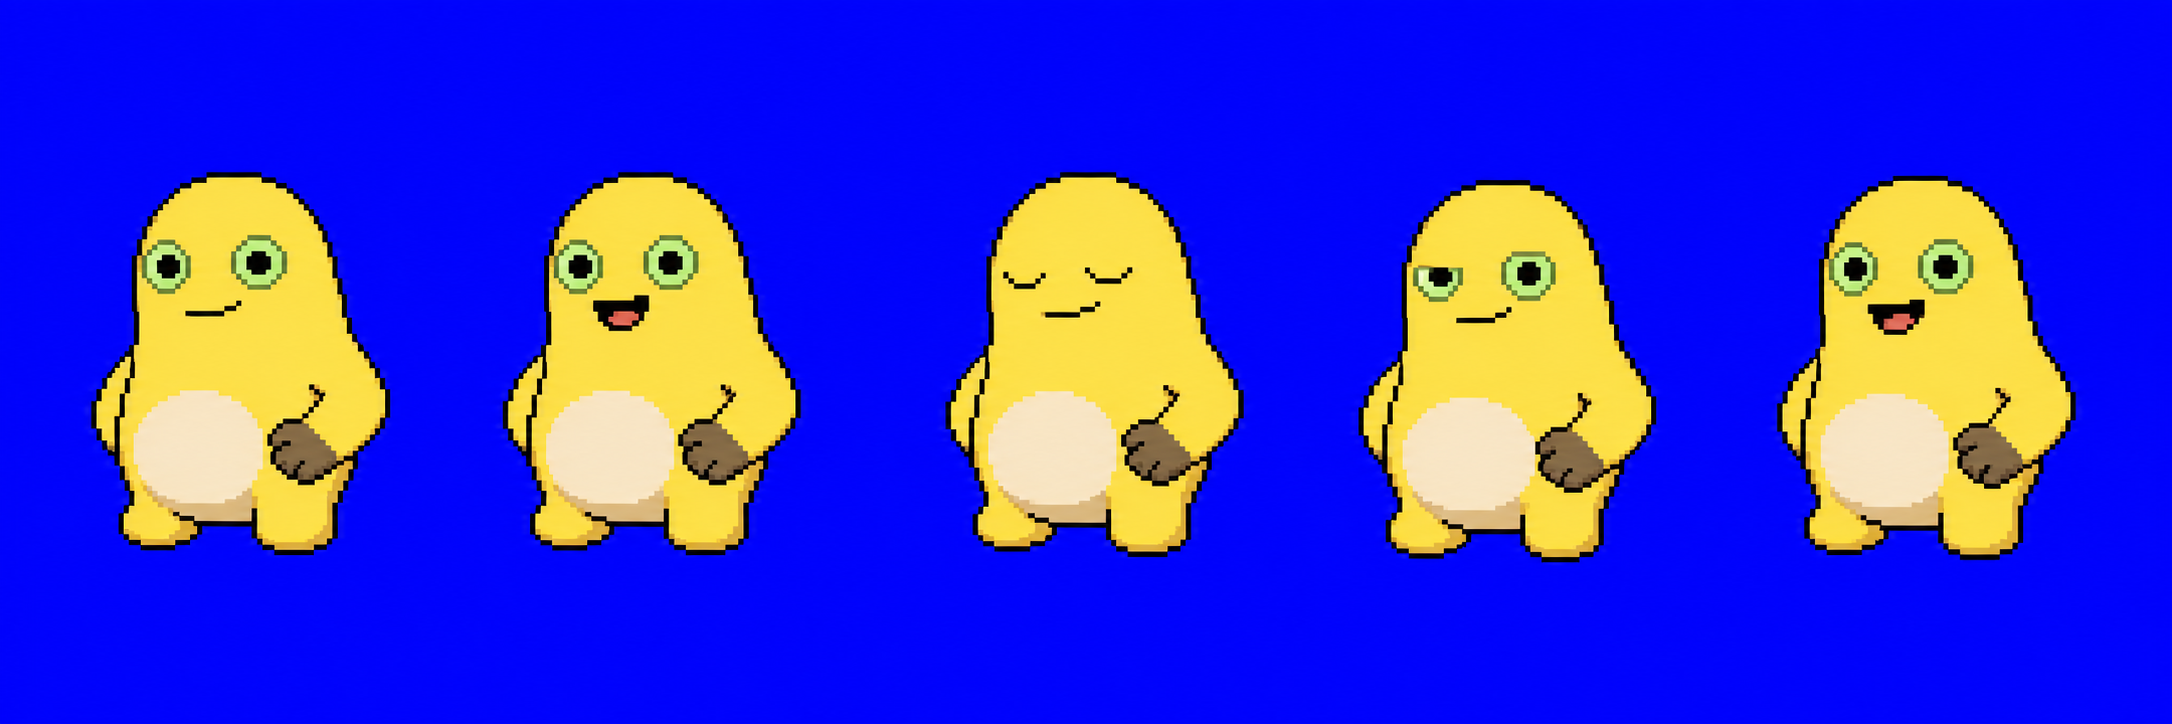
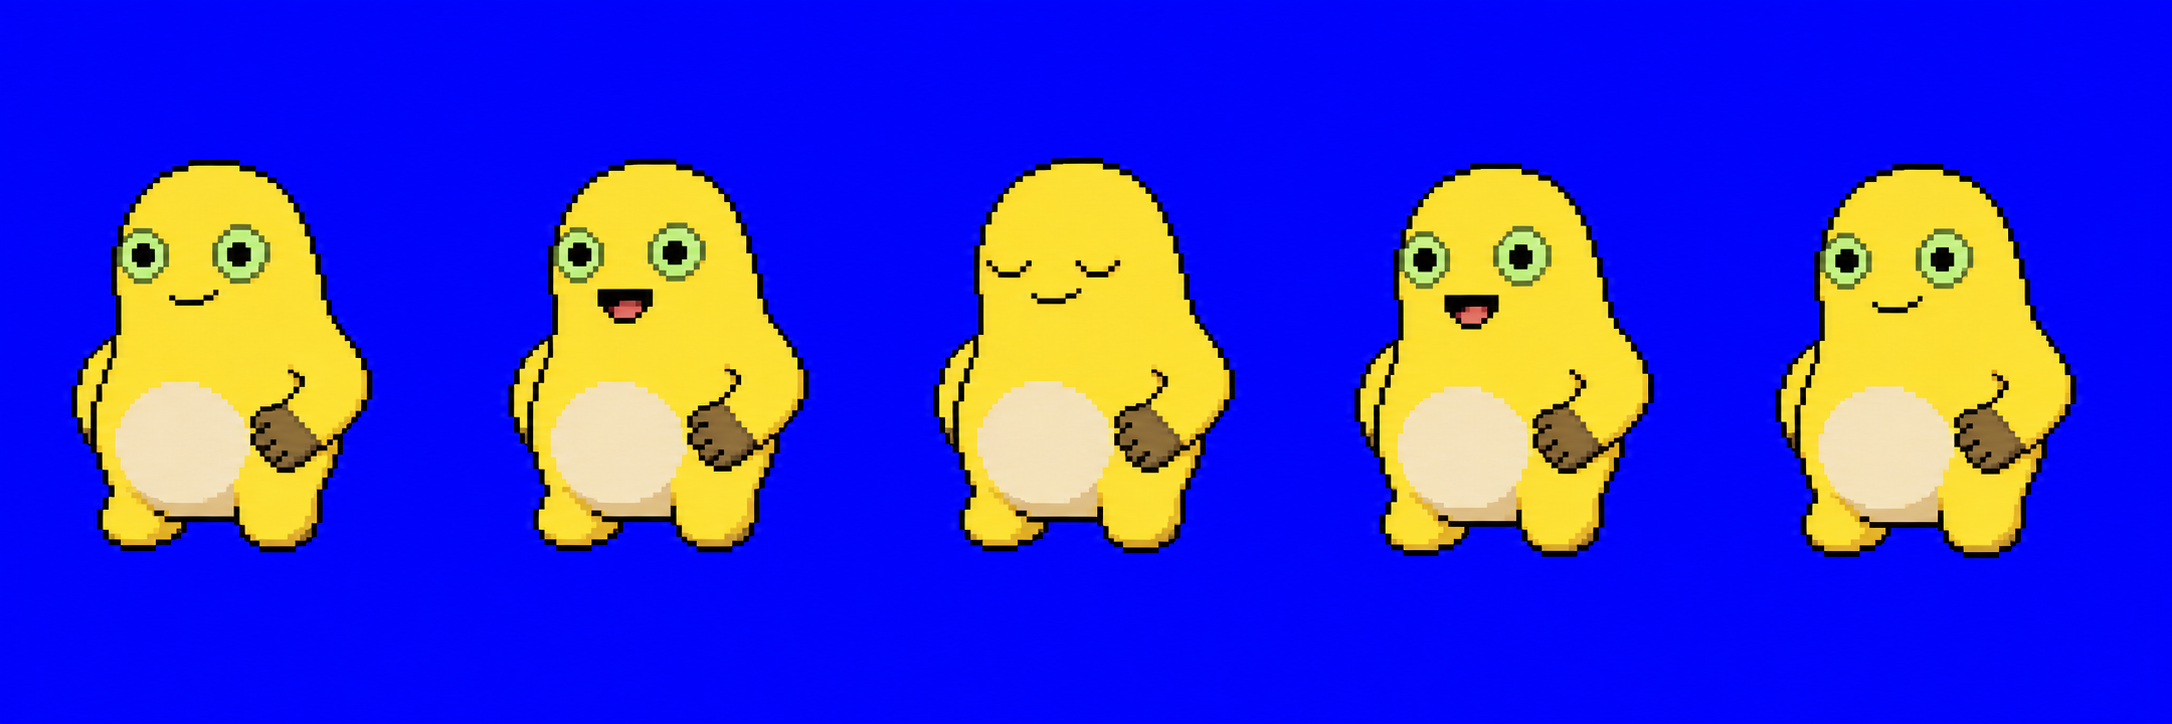
Normalize happy-state palette and regenerate jumping row

diff --git a/yellow-thinker-run/prompts/rows/jumping.md b/yellow-thinker-run/prompts/rows/jumping.md
@@ -17,6 +17,11 @@ Use this prompt as an authoritative sprite-production spec. Do not expand it int
 
 Animation action: smug-happy success loop based on a confident pose.
 
+Palette lock:
+- Match the canonical base pet palette exactly for yellow body, belly cream tone, green eyes, and outline darkness.
+- Do not brighten, wash out, or desaturate the yellow body relative to the canonical base.
+- Keep contrast and shading depth consistent with other rows (especially idle/review/failed).
+
 
 State-specific requirements:
 - Match the reference mood: confident and happy, with a slightly smug face and one paw resting near the belly/hip area.
